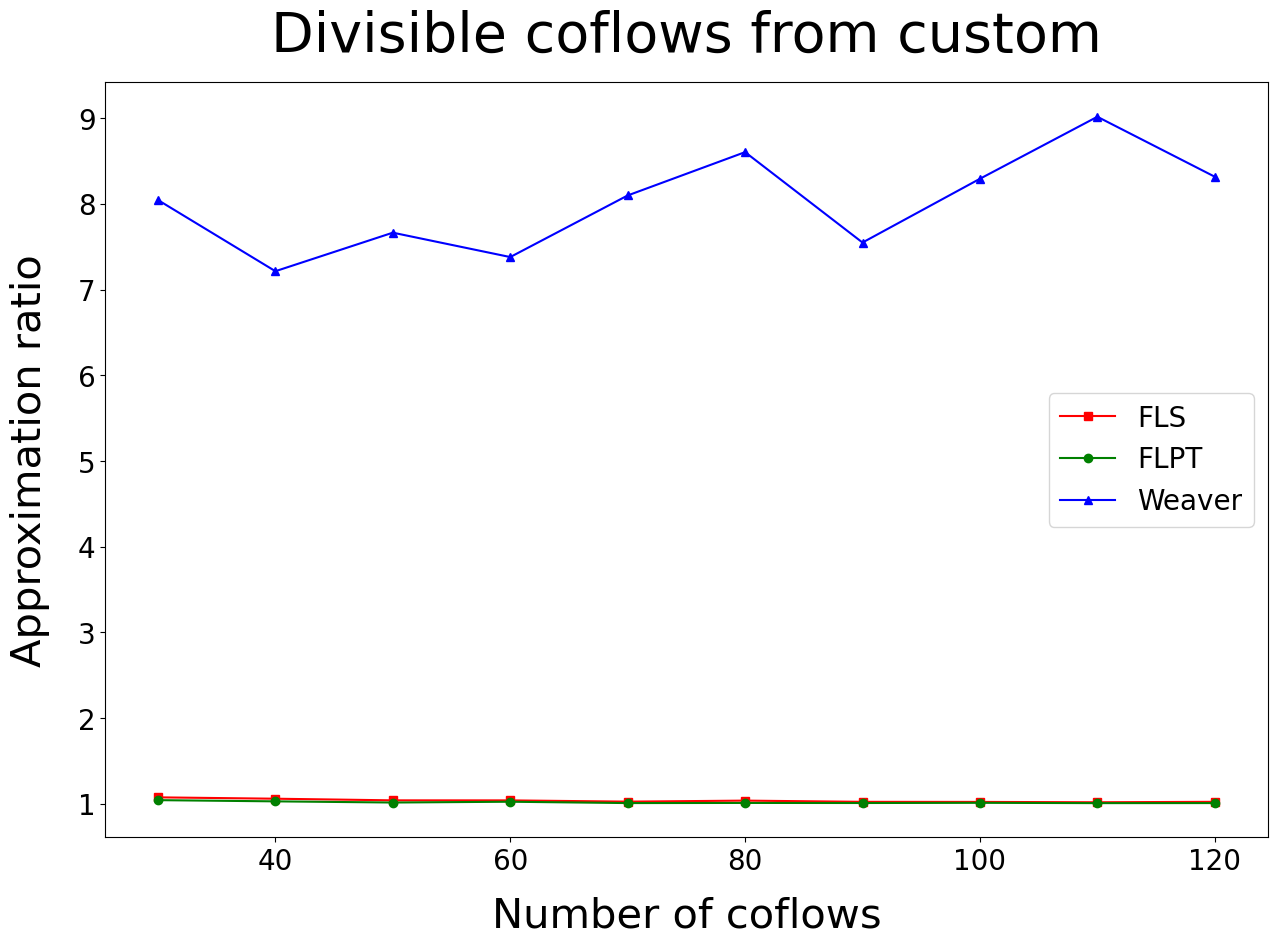
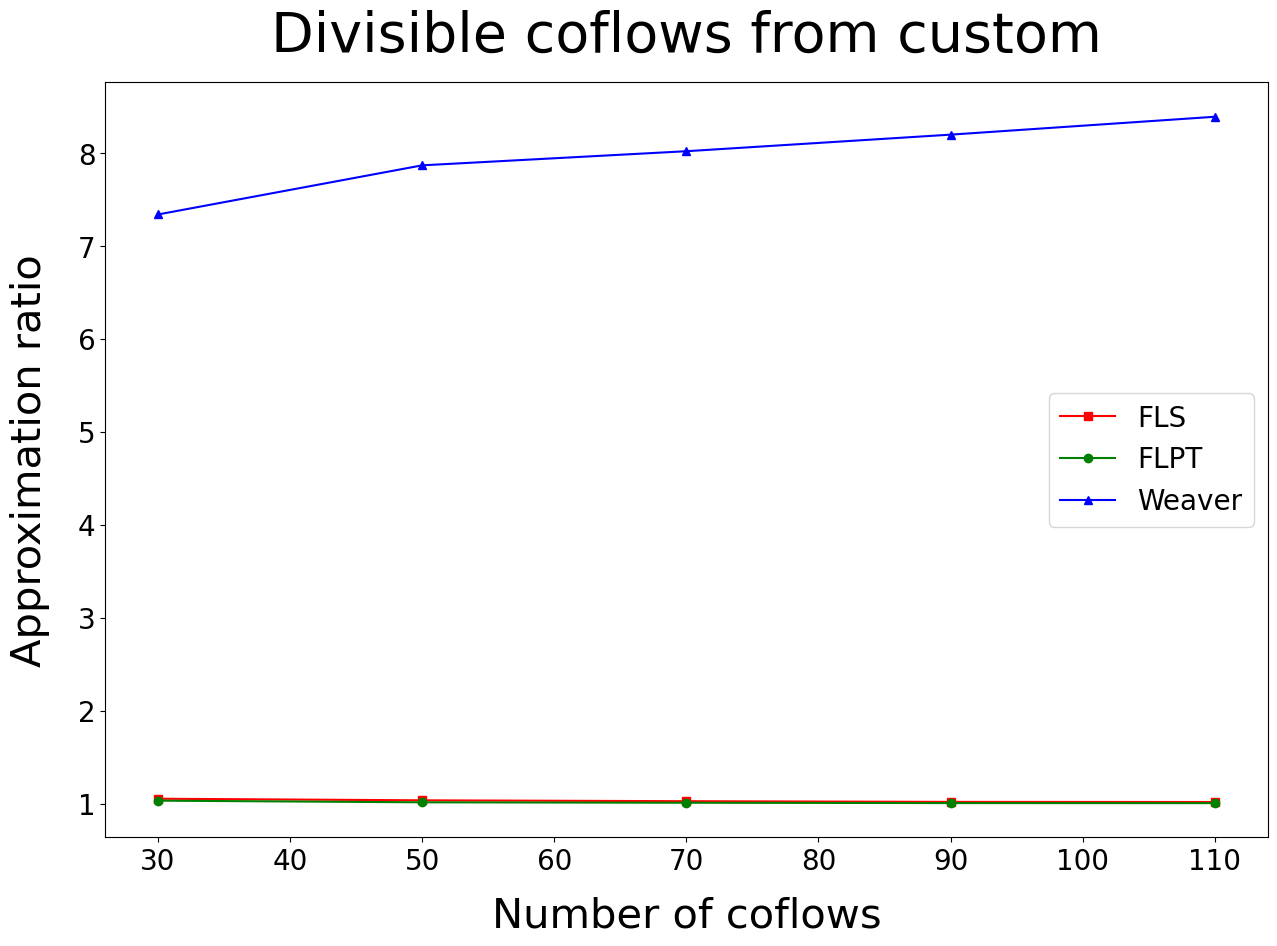
add benchmark data

diff --git a/Experiments/coflowSim/main_custom_divisible_heterogeneous.py b/Experiments/coflowSim/main_custom_divisible_heterogeneous.py
@@ -24,6 +24,7 @@ for speedListOfCores in coreSpeedDistribution:
     for i in range(len(speedListOfCores)):
         indexOfCores.append(i+1)
     
+    index = 1
     for speedIndex in speedListOfCores:
         rseed = 13
         turn = 100
@@ -35,10 +36,10 @@ for speedListOfCores in coreSpeedDistribution:
         
         while(turn > 0):
             print(curNumCores)
-            print(i+1)
+            print(index)
             print(turn)
             numRacks = 50
-            numJobs = 50
+            numJobs = 100
             randomSeed = rseed
             
             jobClassDescs = [JobClassDescription(1, 5, 1, 10),
@@ -220,6 +221,8 @@ for speedListOfCores in coreSpeedDistribution:
         Weaver.append(average_Weaver)
         
         rawWeaver.append(listOfTurnsWeaver)
+        
+        index += 1
     
     raw = {'rawFLPT': rawFLPT, 'rawWeaver': rawWeaver}
     algo = {'FLPT': FLPT, 'Weaver': Weaver}
